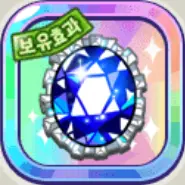
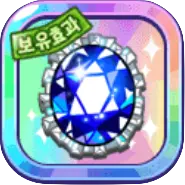
image: 누끼 적용

diff --git a/components/crystal-input-card.tsx b/components/crystal-input-card.tsx
@@ -56,7 +56,7 @@ const CrystalInputCard: React.FC<CrystalCardProps> = ({
               className="mr-2 w-10 h-10 md:w-12 md:h-12"
             />
           ) : (
-            <Gem className="mr-2 w-10 h-10 md:w-12 md:h-12 text-blue-500 bg-sky-300 rounded-lg" />
+            <Gem className="mr-2 min-w-10 min-h-10 md:w-12 md:h-12 text-blue-500 bg-sky-300 rounded-lg" />
           )}
           <div className="flex items-center">{item.name}</div>
         </CardTitle>
@@ -79,7 +79,7 @@ const CrystalInputCard: React.FC<CrystalCardProps> = ({
                     <Input
                       placeholder={placeholder}
                       {...field}
-                      className={`${colorScheme.border} ${colorScheme.text} placeholder:${colorScheme.text} placeholder:opacity-50 bg-white bg-opacity-50 text-base`}
+                      className={`${colorScheme.border} ${colorScheme.text} placeholder:${colorScheme.text} placeholder:opacity-50 bg-white bg-opacity-50`}
                     />
                   </FormControl>
                   <FormMessage />
